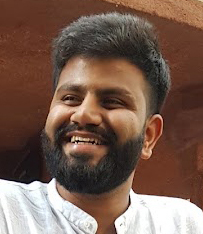
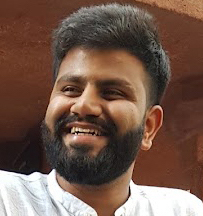
updated profiles

diff --git a/content/_index.md b/content/_index.md
@@ -17,10 +17,10 @@ director:
        name: "Nabil Alshurafa",
        title: "Ph.D., Director of HABits Lab",
        university: "Northwestern University",
-       linkedIn: "https://www.linkedin.com/",
+       linkedIn: "https://www.linkedin.com/in/nabil-alshurafa-00380523/",
        twitter: "https://twitter.com/habitslab",
        email: "mailto:nabil@northwestern.edu",
-       profile: "/profiles/firstname_lastname"
+       profile: "/profiles/nabil"
     }
 
 # Missions section
@@ -53,17 +53,16 @@ team: {
         ],
     research_staff: [
         {name: "Mahdi Pedram", degree: "Ph.D., Lab Manager", image: "/img/mahdi.jpg", profile: "/profiles/mahdi"},
-        {name: "Chris Romano", degree: "Research Study Coordinator", image: "/img/im-4.png", profile: "/profiles/chris"},
-        {name: "Jeb Sumeracki", degree: "Software Engineer", image: "/img/jeb.jpg", profile: "/profiles/jeb"},
+        {name: "Chris Romano", degree: "Research Study Coordinator", image: "/img/readme/head.jpg", profile: "/profiles/chris"},
         {name: "Bonnie Nolan", degree: "Research Study Assistant", image: "/img/bonnie.jpg", profile: "/profiles/bonnie"},        
         ],
     masters_undergrads: [
-        {name: "Edward Chen", degree: "Undergrad", image: "/img/edward.JPG", profile: "/profiles/new.md"},
-	{name: "Helen Zhu", degree: "Undergrad", image: "/img/Helen.jpg", profile: "/profiles/new.md"},
-	{name: "Dwayne Morgan", degree: "Undergrad", image: "/img/Dwayne.jpg", profile: "/profiles/new.md"},
- 	{name: "Tanmeet Butani", degree: "Masters", image: "/img/tanmeet.jpeg", profile: "/profiles/new.md"},
-  	{name: "Gracelyn Shi", degree: "Undergrad", image: "/img/grace.jpg", profile: "/profiles/new.md"},
-  	{name: "Jiayi (Joey) Zheng", degree: "Masters", image: "/img/jiayi.jpg", profile: "/profiles/jiayi.md"}
+        {name: "Edward Chen", degree: "Undergrad", image: "/img/edward.JPG", profile: "/profiles/edward"},
+	{name: "Helen Zhu", degree: "Undergrad", image: "/img/Helen.jpg", profile: "/profiles/helen"},
+	{name: "Dwayne Morgan", degree: "Undergrad", image: "/img/Dwayne.jpg", profile: "/profiles/dwayne"},
+ 	{name: "Tanmeet Butani", degree: "Masters", image: "/img/tanmeet.jpeg", profile: "/profiles/tanmeet"},
+  	{name: "Gracelyn Shi", degree: "Undergrad", image: "/img/grace.jpg", profile: "/profiles/gracelyn"},
+  	{name: "Jiayi (Joey) Zheng", degree: "Masters", image: "/img/jiayi.jpg", profile: "/profiles/jiayi"}
         ],
     collaborators: [
 	{name: "Bonnie J Spring", degree: "Director, Institute for Public Health and Medicine (IPHAM) - Center for Behavior and Health. Professor in Preventive Medicine-Behavioral Medicine, Psychiatry and Behavioral Sciences and Weinberg College of Art", profile: "/profiles/firstname_lastname"},
@@ -75,10 +74,10 @@ team: {
         {name: "Lauren Wakschlag", degree: "Vice Chair for Scientific & Faculty Development, Department of Medical Social Sciences Director, Institute for Innovations in Developmental Sciences Professor of Medical Social Sciences,", profile: ""},                    
          ],
     former_students: [
-    		{name: "Rawan Alharbi", degree: "Ph.D", profile: "/profiles/firstname_lastname"},
-		{name: "Yang Gao", degree: "Postdoc", profile: "/profiles/firstname_lastname"},
-		{name: "Shibo Zhang", degree: "Ph.D", profile: "/profiles/firstname_lastname"},
-		{name: "Dzung Nguyen", degree: "Ph.D/Postdoc", profile: "/profiles/firstname_lastname"},
+    		{name: "Rawan Alharbi", degree: "Ph.D", profile: ""},
+		{name: "Yang Gao", degree: "Postdoc", profile: ""},
+		{name: "Shibo Zhang", degree: "Ph.D", profile: ""},
+		{name: "Dzung Nguyen", degree: "Ph.D/Postdoc", profile: ""},
 		{name: "Sougata Sen", degree: "Postdoc", profile: ""},
 		{name: "Sal Aguinaga", degree: "Postdoc", profile: ""},
 		{name: "Shengjie Bi", degree: "Ph.D.", profile: ""},

diff --git a/content/profiles/glenn.md b/content/profiles/glenn.md
@@ -1,0 +1,27 @@
+---
+title: "Glenn Fernandes"
+date: 2021-12-30T15:09:31-06:00
+draft: false
+info: {name: "Glenn Fernandes",
+      title: "PhD Student",
+      email: "glenn.fernandes@northwestern.edu",
+      description: "",
+      img: "img/im-6.png",}
+---
+
+I’m a fourth-year PhD candidate at Northwestern University, working with HABits Lab at the intersection of Computer Science and Preventive Medicine. My research primarily focuses on:
+(i) user centric design and development of wearable camera systems for tracking human behaviors and providing interventions
+(ii) development of explainable machine learning tools to enhance human+ai interaction and decision-making
+
+I love interdisciplinary research, especially research at the intersection of tech, healthcare and data science. I’m motivated and interested to work on projects that integrate software and hardware for developing tools and platforms that can make a widespread impact on people.
+
+### Education
+M.S. Computer Science, Northwestern University (2022)
+
+M.Sc. Biological Sciences, Birla Institute of Technology and Science, Pilani (2019)
+
+B.E. Electrical and Electronics Engineering, Birla Institute of Technology and Science, Pilani (2019)
+
+
+
+[comment]: <> (### Selected Publications)

diff --git a/content/profiles/nabil.md b/content/profiles/nabil.md
@@ -1,0 +1,19 @@
+---
+title: "Nabil Alshurafa"
+date: 2021-12-30T15:09:31-06:00
+draft: false
+info: {name: "Nabil Alshurafa",
+      title: "Associate Professor of Preventive Medicine and Computer Science",
+      email: "nabil@northwestern.edu",
+      description: "",
+      img: "/img/pro-big.png",}
+---
+
+### Education
+Ph.D. in Computer Science, University of California Los Angeles
+
+### Research Interests
+
+Passive Sensing Data Analytics, Ubiquitous Computing, Mobile Health, Wearable Sensors
+
+[comment]: <> (### Selected Publications)

diff --git a/content/profiles/dwayne.md b/content/profiles/dwayne.md
@@ -1,17 +1,13 @@
 ---
-title: "Helen Zhu"
+title: "Dwayne Morgan"
 date: 2021-12-30T15:09:31-06:00
 draft: false
-info: {name: "Helen Zhu",
+info: {name: "Dwayne Morgan",
       title: "Undergraduate Research Assistant",
-      email: "helenzhu2025@u.northwestern.edu",
+      email: "DwayneMorgan2024@u.northwestern.edu",
       description: "",
-      img: "/img/Helen.jpg",}
+      img: "img/Dwayne.jpg",}
 ---
 
-### Education
-
-
-### Research Interests
 
 [comment]: <> (### Selected Publications)

diff --git a/content/profiles/gracelyn.md b/content/profiles/gracelyn.md
@@ -1,17 +1,13 @@
 ---
-title: "Helen Zhu"
+title: "Gracelyn Shi"
 date: 2021-12-30T15:09:31-06:00
 draft: false
-info: {name: "Helen Zhu",
+info: {name: "Gracelyn Shi",
       title: "Undergraduate Research Assistant",
-      email: "helenzhu2025@u.northwestern.edu",
+      email: "GracelynShi2025@u.northwestern.edu",
       description: "",
-      img: "/img/Helen.jpg",}
+      img: "img/grace.jpg",}
 ---
 
-### Education
-
-
-### Research Interests
 
 [comment]: <> (### Selected Publications)

diff --git a/content/profiles/edward.md b/content/profiles/edward.md
@@ -1,17 +1,13 @@
 ---
-title: "Helen Zhu"
+title: "Edward Chen"
 date: 2021-12-30T15:09:31-06:00
 draft: false
-info: {name: "Helen Zhu",
+info: {name: "Edward Chen",
       title: "Undergraduate Research Assistant",
-      email: "helenzhu2025@u.northwestern.edu",
+      email: "EdwardChen2024@u.northwestern.edu",
       description: "",
-      img: "/img/Helen.jpg",}
+      img: "img/edward.jpg",}
 ---
 
-### Education
-
-
-### Research Interests
 
 [comment]: <> (### Selected Publications)

diff --git a/content/profiles/farzad.md b/content/profiles/farzad.md
@@ -1,0 +1,17 @@
+---
+title: "Farzad Shahabi"
+date: 2021-12-30T15:09:31-06:00
+draft: false
+info: {name: "Farzad Shahabi",
+      title: "PhD Student",
+      email: "farzad.shahabi@northwestern.edu",
+      description: "",
+      img: "img/im-2.png",}
+---
+
+### Education
+M.S. Electrical Engineering, University of South Florida
+
+M.S. Data Analytics and Security, University of South Florida
+
+[comment]: <> (### Selected Publications)

diff --git a/content/profiles/boyang.md b/content/profiles/boyang.md
@@ -1,0 +1,17 @@
+---
+title: "Boyang Wei"
+date: 2021-12-30T15:09:31-06:00
+draft: false
+info: {name: "Boyang Wei",
+      title: "PhD Student",
+      email: "boyang.wei@northwestern.edu",
+      description: "",
+      img: "img/im-1.png",}
+---
+
+### Education
+M.S. Analytics, Georgetown University
+
+B.S. Biochemistry, University of Washington
+
+[comment]: <> (### Selected Publications)

diff --git a/content/profiles/jiayi.md b/content/profiles/jiayi.md
@@ -1,0 +1,13 @@
+---
+title: "Jiayi (Joey) Zheng"
+date: 2021-12-30T15:09:31-06:00
+draft: false
+info: {name: "Jiayi (Joey) Zheng",
+      title: "Masters Research Assistant",
+      email: "JiayiZheng2024@u.northwestern.edu",
+      description: "",
+      img: "img/jiayi.jpg",}
+---
+
+
+[comment]: <> (### Selected Publications)

diff --git a/content/profiles/tanmeet.md b/content/profiles/tanmeet.md
@@ -1,0 +1,13 @@
+---
+title: "Tanmeet Butani"
+date: 2021-12-30T15:09:31-06:00
+draft: false
+info: {name: "Tanmeet Butani",
+      title: "Masters Research Assistant",
+      email: "TanmeetButani2024@u.northwestern.edu",
+      description: "",
+      img: "img/tanmeet.jpeg",}
+---
+
+
+[comment]: <> (### Selected Publications)

diff --git a/content/profiles/saki.md b/content/profiles/saki.md
@@ -1,0 +1,15 @@
+---
+title: "Saki Amagai"
+date: 2021-12-30T15:09:31-06:00
+draft: false
+info: {name: "Skai Amagai",
+      title: "PhD Student",
+      email: "saki.amagai@northwestern.edu",
+      description: "",
+      img: "img/saki.jpg",}
+---
+
+
+
+[comment]: <> (### Selected Publications)
+

diff --git a/content/profiles/soroush.md b/content/profiles/soroush.md
@@ -11,7 +11,7 @@ info: {name: "Soroush Shahi",
 
 ### Education
 
-B.Sc. in Computer Engineering
+B.Sc. in Computer Engineering, University of Tehran
 
 ### Research Interests
 
